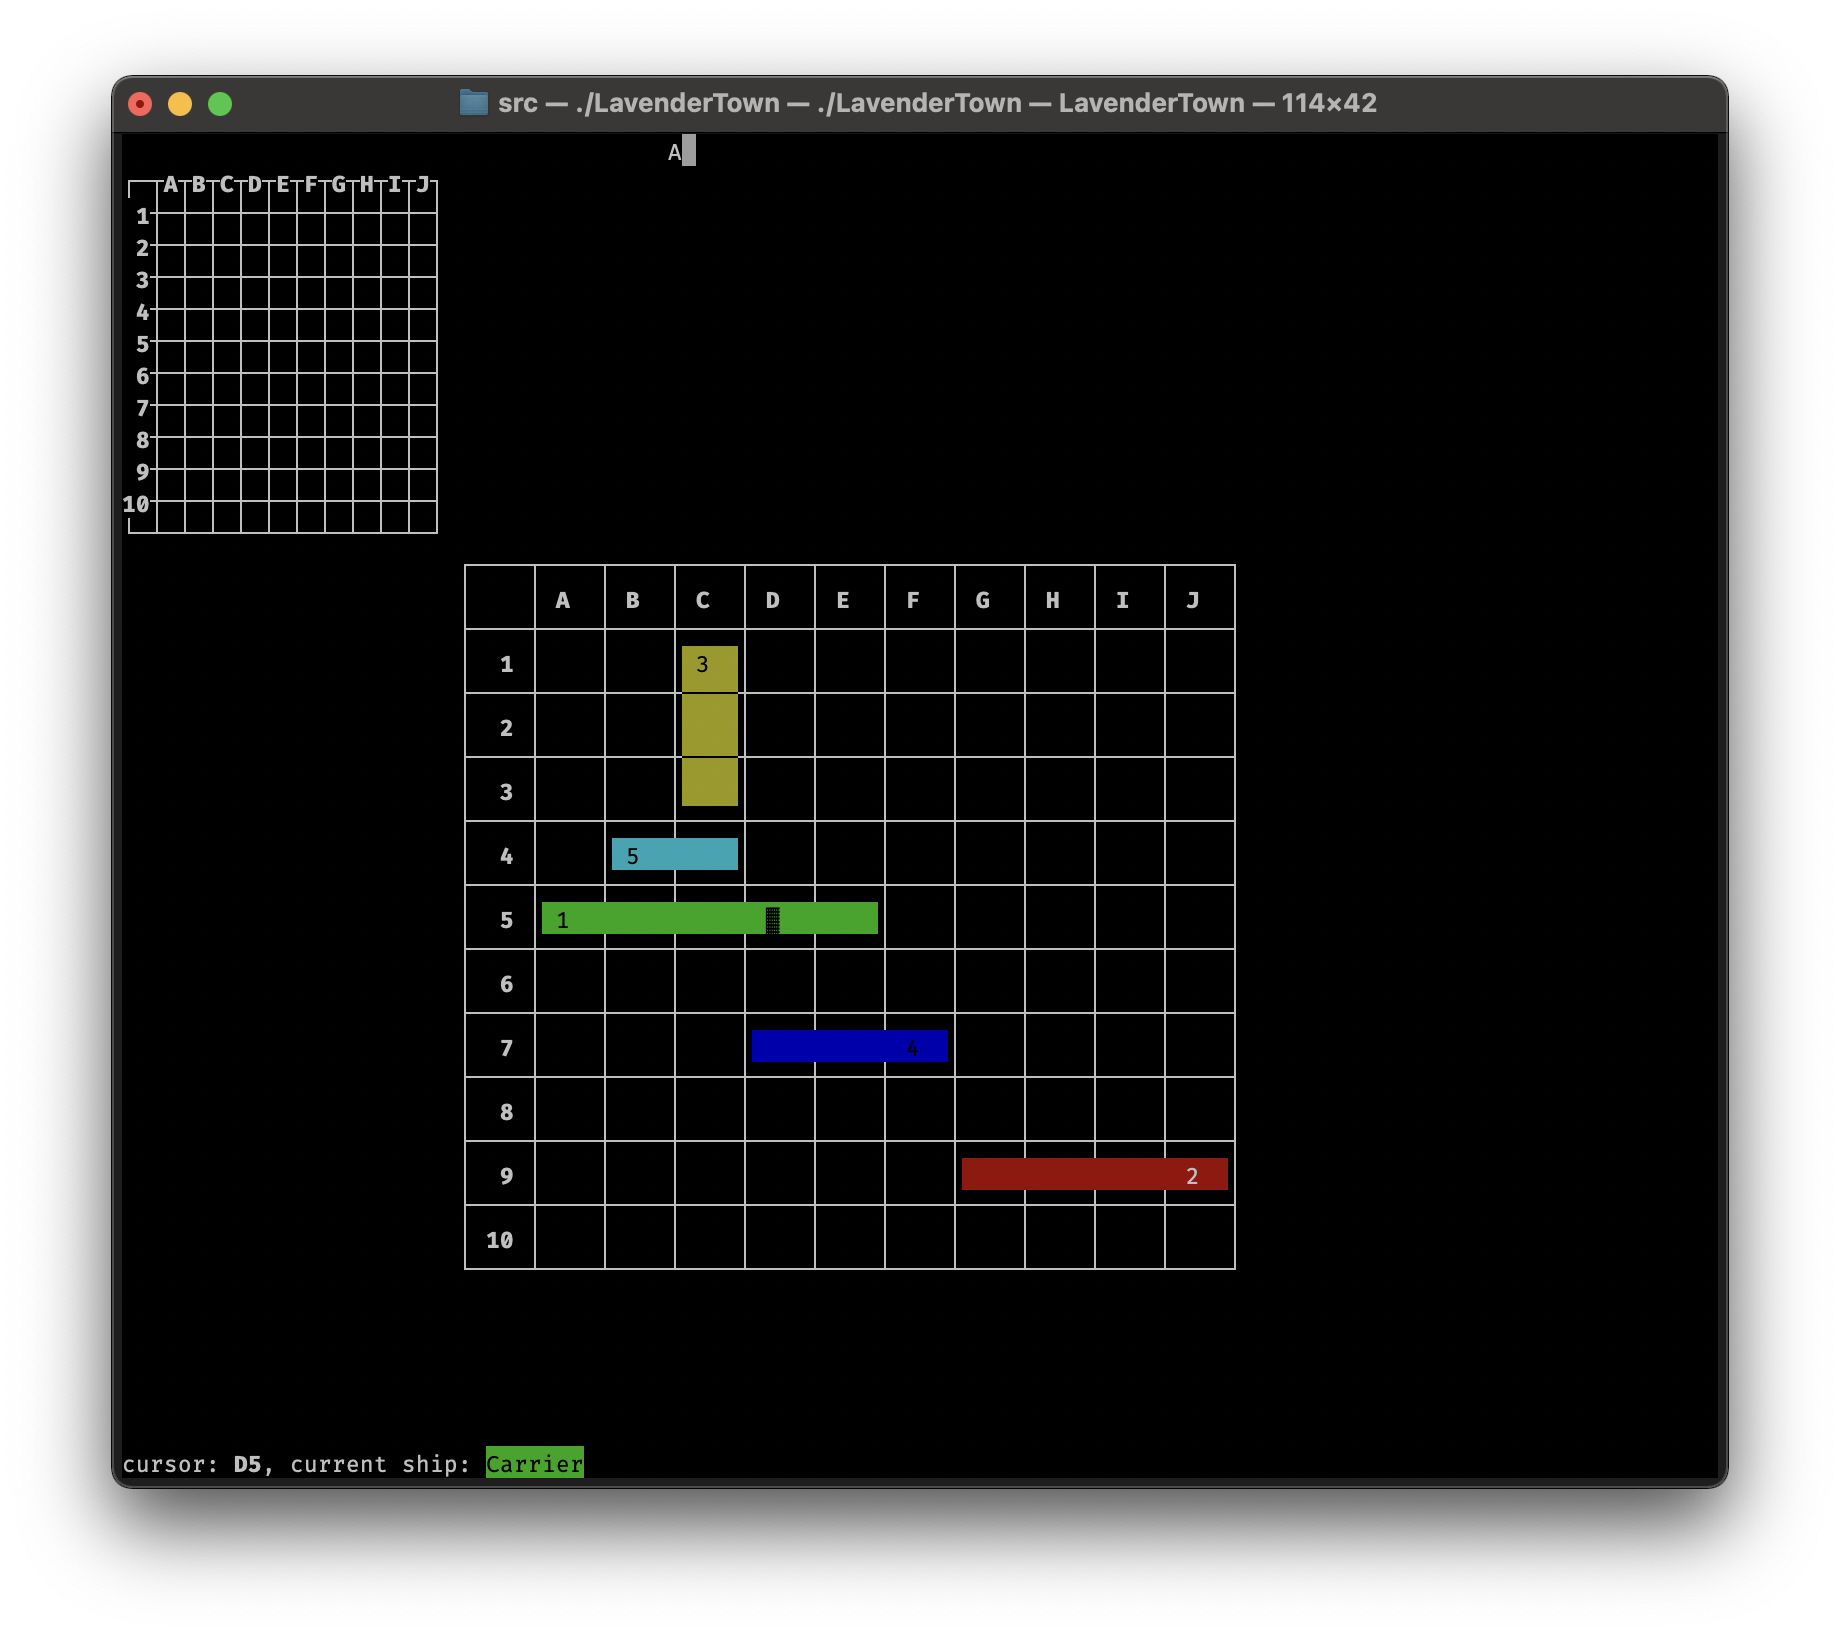
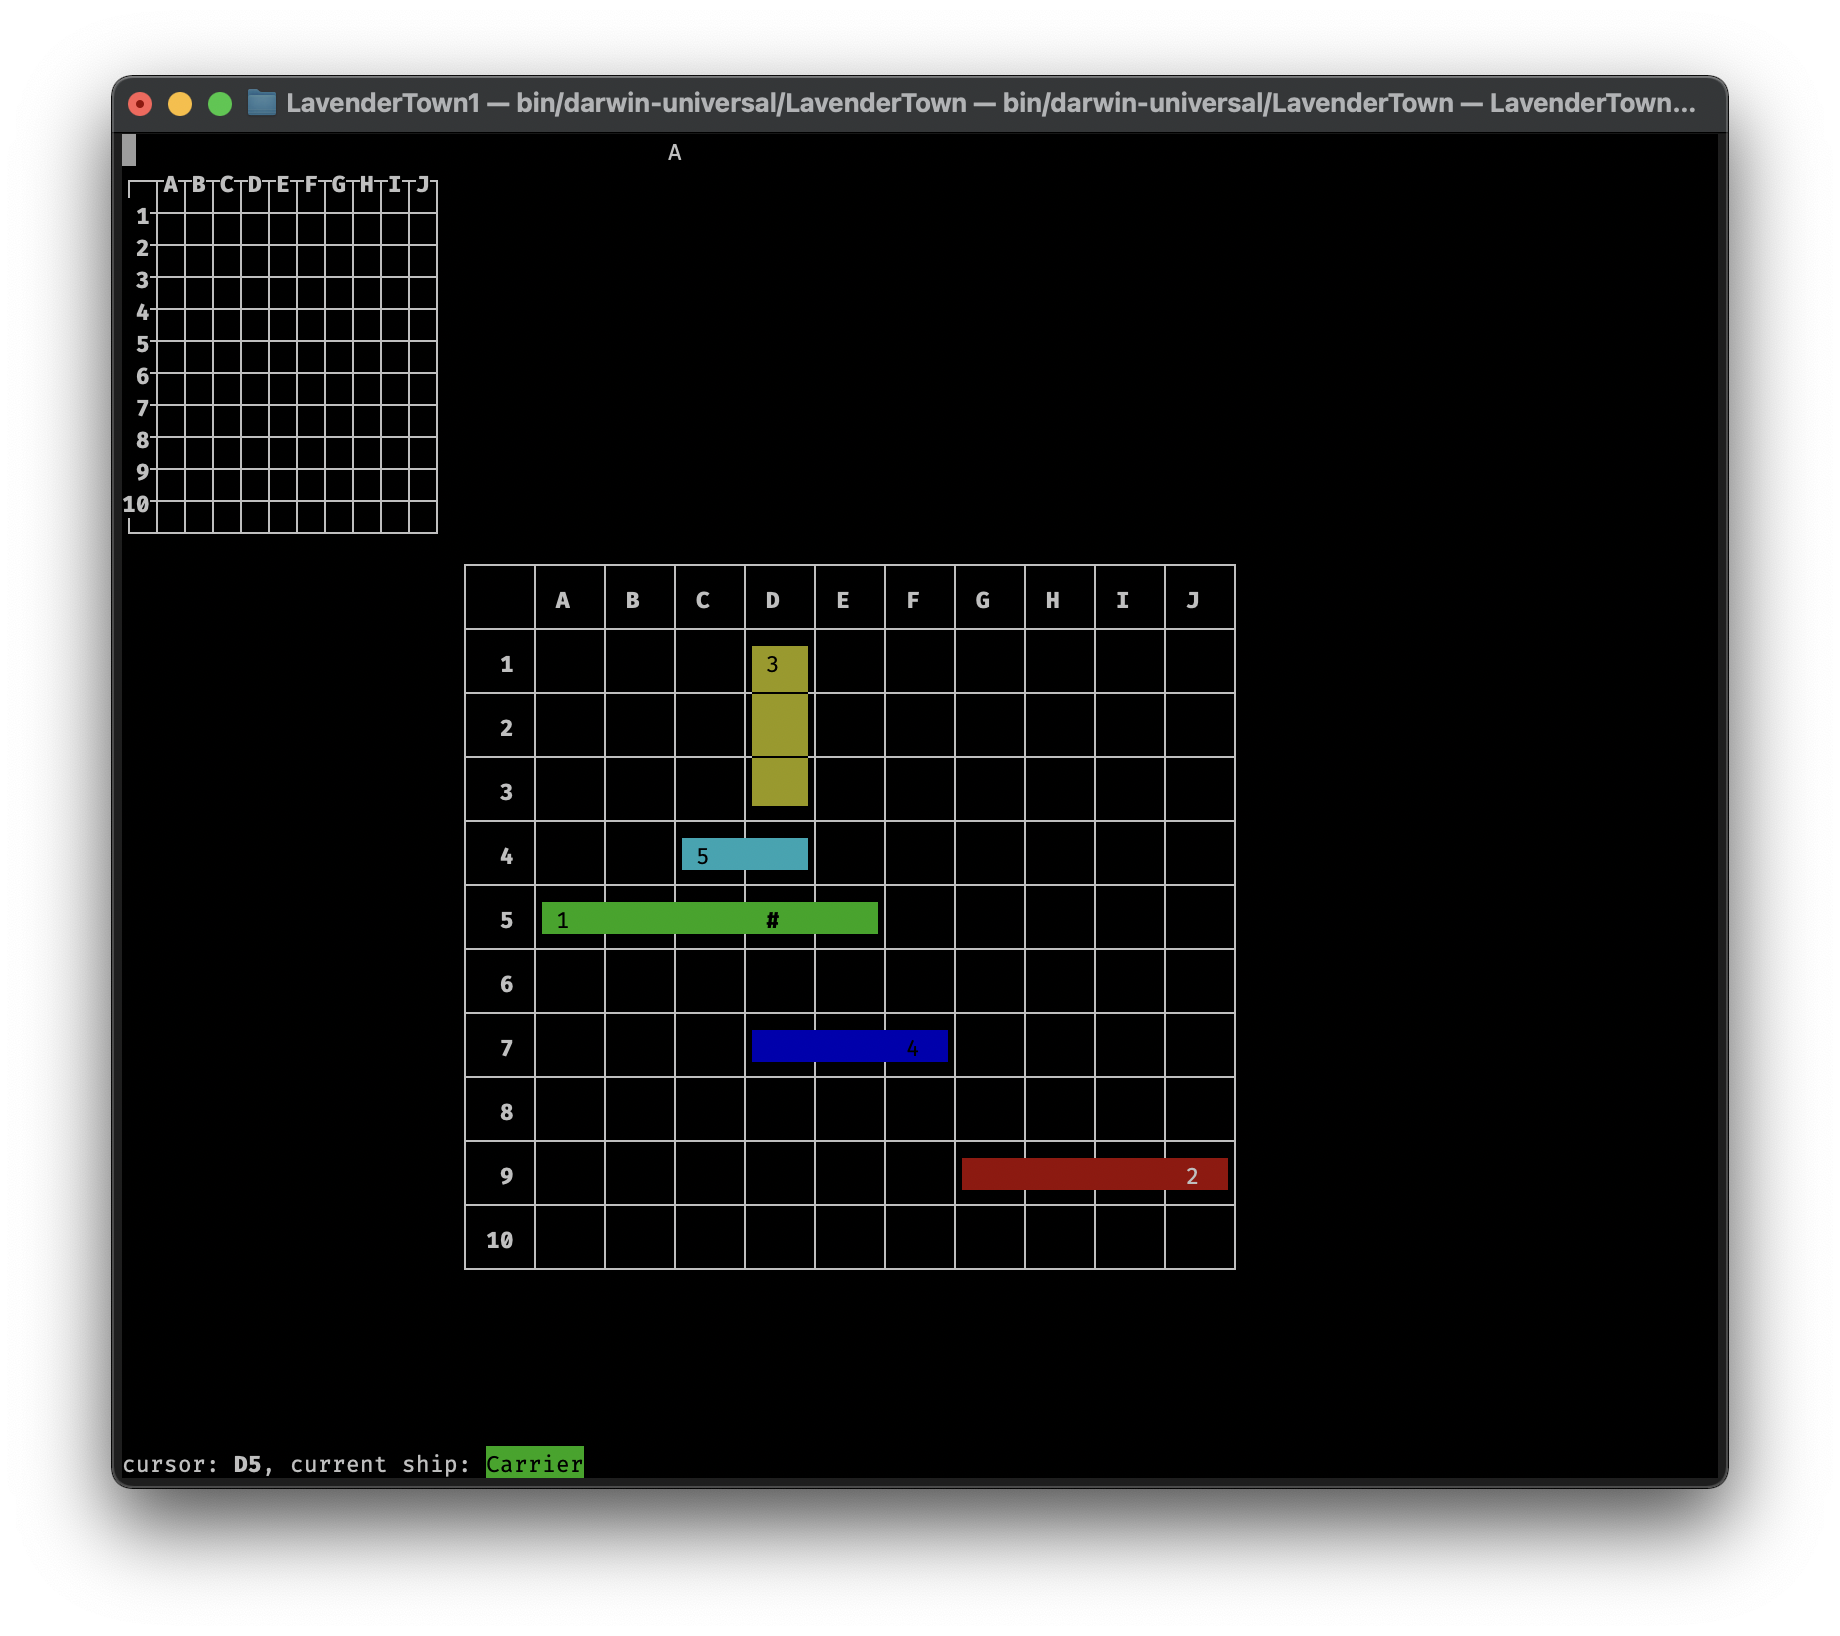
fix: better Windows Support
UTF-8 not working correctly on Windows

Changed region(s): [[0.1239, 0.0312, 0.8984, 0.0935], [0.3717, 0.3741, 0.4647, 0.53], [0.3098, 0.4988, 0.3717, 0.53]]

diff --git a/src/util/drawing.c b/src/util/drawing.c
@@ -153,16 +153,11 @@ void drawCursor(
 	const unsigned int existingChar =
 		mvwinch(window, drawLocation.y, drawLocation.x);
 	const unsigned int attributes = A_BOLD | existingChar & A_COLOR;
-	unsigned int cursorChar = existingChar & A_CHARTEXT;
-	char cursorString[] = "▓";
-	/*if(cursorChar - '1' <= 4) {
-		cursorString[0] = (char)cursorChar;
-		cursorString[1] = '\0';
-	}*/
+	chtype cursorChar = ACS_BLOCK;
 	drawBorder(window, getSelection(window, gridDimensions, posToAABB(cursor)),
 			   ' ' | attributes);
 	wattron(window, attributes);
-	mvwaddstr(window, drawLocation.y, drawLocation.x, cursorString);
+	mvwaddch(window, drawLocation.y, drawLocation.x, cursorChar);
 	wattroff(window, attributes);
 }
 void drawNameInCenter(WINDOW *window, char name[]) {

diff --git a/src/main.c b/src/main.c
@@ -9,10 +9,11 @@
 #include "events/endScreen/endScreen.h"
 #include "locale.h"
 #include "player.h"
+#include "playerWindows.h"
+#include "setLocaleUTF8.h"
 #include "ship.h"
 #include "state.h"
 #include "util/random.h"
-#include "windows.h"
 #include <curses.h>
 #include <string.h>
 
@@ -63,7 +64,7 @@ StateType handleState(StateType incomingType, World *world) {
 }
 
 int main() {
-	setlocale(LC_ALL, "");
+	setLocaleUTF8();
 	srand(getSeed());
 	initscr(); // start curses mode
 

diff --git a/src/setLocaleUTF8.c b/src/setLocaleUTF8.c
@@ -1,0 +1,13 @@
+#include "setLocaleUTF8.h"
+#if defined(WIN32) || defined(_WIN32) || defined(__WIN32__) || defined(__NT__)
+#include <windows.h>
+#endif
+#include <locale.h>
+
+void setLocaleUTF8() {
+#if defined(WIN32) || defined(_WIN32) || defined(__WIN32__) || defined(__NT__)
+	SetConsoleOutputCP(CP_UTF8);
+
+#endif
+	setlocale(LC_ALL, "en_US.UTF-8");
+}

diff --git a/src/playerWindows.h b/src/playerWindows.h
@@ -1,5 +1,5 @@
-#ifndef SRC_WINDOWS_H
-#define SRC_WINDOWS_H
+#ifndef SRC_PLAYERWINDOWS_H
+#define SRC_PLAYERWINDOWS_H
 
 #include <curses.h>
 
@@ -11,4 +11,4 @@ void overwriteMainWindow(PlayerWindows *windows);
 
 void eraseAllWindows(PlayerWindows *windows);
 
-#endif // SRC_WINDOWS_H
+#endif // SRC_PLAYERWINDOWS_H

diff --git a/src/events/arrangeMode/drawArrangeShips.h b/src/events/arrangeMode/drawArrangeShips.h
@@ -2,9 +2,9 @@
 #define SRC_EVENTS_ARRANGEMODE_DRAWARRANGESHIPS_H
 
 #include "player.h"
+#include "playerWindows.h"
 #include "state.h"
 #include "util/drawing.h"
-#include "windows.h"
 
 StateType drawArrangeShips(StateType incomingType, Player *players,
 						   int currentPlayerIndex, PlayerWindows windows);

diff --git a/src/events/createMode/drawCreatePlayers.h b/src/events/createMode/drawCreatePlayers.h
@@ -2,9 +2,9 @@
 #define SRC_EVENTS_CREATEMODE_DRAWCREATEPLAYERS_H
 
 #include "player.h"
+#include "playerWindows.h"
 #include "state.h"
 #include "util/drawing.h"
-#include "windows.h"
 
 StateType drawCreatePlayers(StateType incomingType, Player *players,
 							int playerIndex, PlayerWindows windows);

diff --git a/src/events/attackMode/drawSwitchAttackingPlayer.c b/src/events/attackMode/drawSwitchAttackingPlayer.c
@@ -1,7 +1,7 @@
 #include "drawSwitchAttackingPlayer.h"
 #include "events/attackMode/drawAttackPlayer.h"
+#include "playerWindows.h"
 #include "util/drawing.h"
-#include "windows.h"
 
 StateType drawSwitchAttackingPlayer(StateType incomingType, Player *players,
 									int currentPlayerIndex,

diff --git a/src/events/createMode/drawCreatePlayers.c b/src/events/createMode/drawCreatePlayers.c
@@ -1,8 +1,8 @@
 #include "events/createMode/drawCreatePlayers.h"
 #include "events/createMode/createPlayers.h"
+#include "playerWindows.h"
 #include "state.h"
 #include "util/drawing.h"
-#include "windows.h"
 #include <string.h>
 
 const char MESSAGE[] = "Enter your name:";

diff --git a/src/events/attackMode/drawSwitchAttackingPlayer.h b/src/events/attackMode/drawSwitchAttackingPlayer.h
@@ -2,8 +2,8 @@
 #define SRC_EVENTS_ATTACKMODE_DRAWSWITCHATTACKINGPLAYER
 
 #include "player.h"
+#include "playerWindows.h"
 #include "state.h"
-#include "windows.h"
 #include <curses.h>
 
 StateType drawSwitchAttackingPlayer(StateType incomingType, Player *players,

diff --git a/src/events/attackMode/drawAttackPlayer.c b/src/events/attackMode/drawAttackPlayer.c
@@ -1,6 +1,6 @@
 #include "events/attackMode/drawAttackPlayer.h"
+#include "playerWindows.h"
 #include "util/drawing.h"
-#include "windows.h"
 
 void drawPlayerBoard(Player *currentPlayer, WINDOW *primaryWindow,
 					 Player *enemyPlayer, WINDOW *trackingWindow) {

diff --git a/src/events/arrangeMode/drawArrangeShips.c b/src/events/arrangeMode/drawArrangeShips.c
@@ -1,7 +1,7 @@
 #include "events/arrangeMode/drawArrangeShips.h"
+#include "playerWindows.h"
 #include "state.h"
 #include "util/drawing.h"
-#include "windows.h"
 #include <string.h>
 
 StateType drawArrangeShips(StateType incomingType, Player *players,

diff --git a/src/events/attackMode/drawAttackPlayer.h b/src/events/attackMode/drawAttackPlayer.h
@@ -2,8 +2,8 @@
 #define SRC_EVENTS_ATTACKMODE_DRAWATTACKPLAYER_H
 
 #include "player.h"
+#include "playerWindows.h"
 #include "state.h"
-#include "windows.h"
 #include <curses.h>
 
 void drawPlayerBoard(Player *currentPlayer, WINDOW *primaryWindow,
